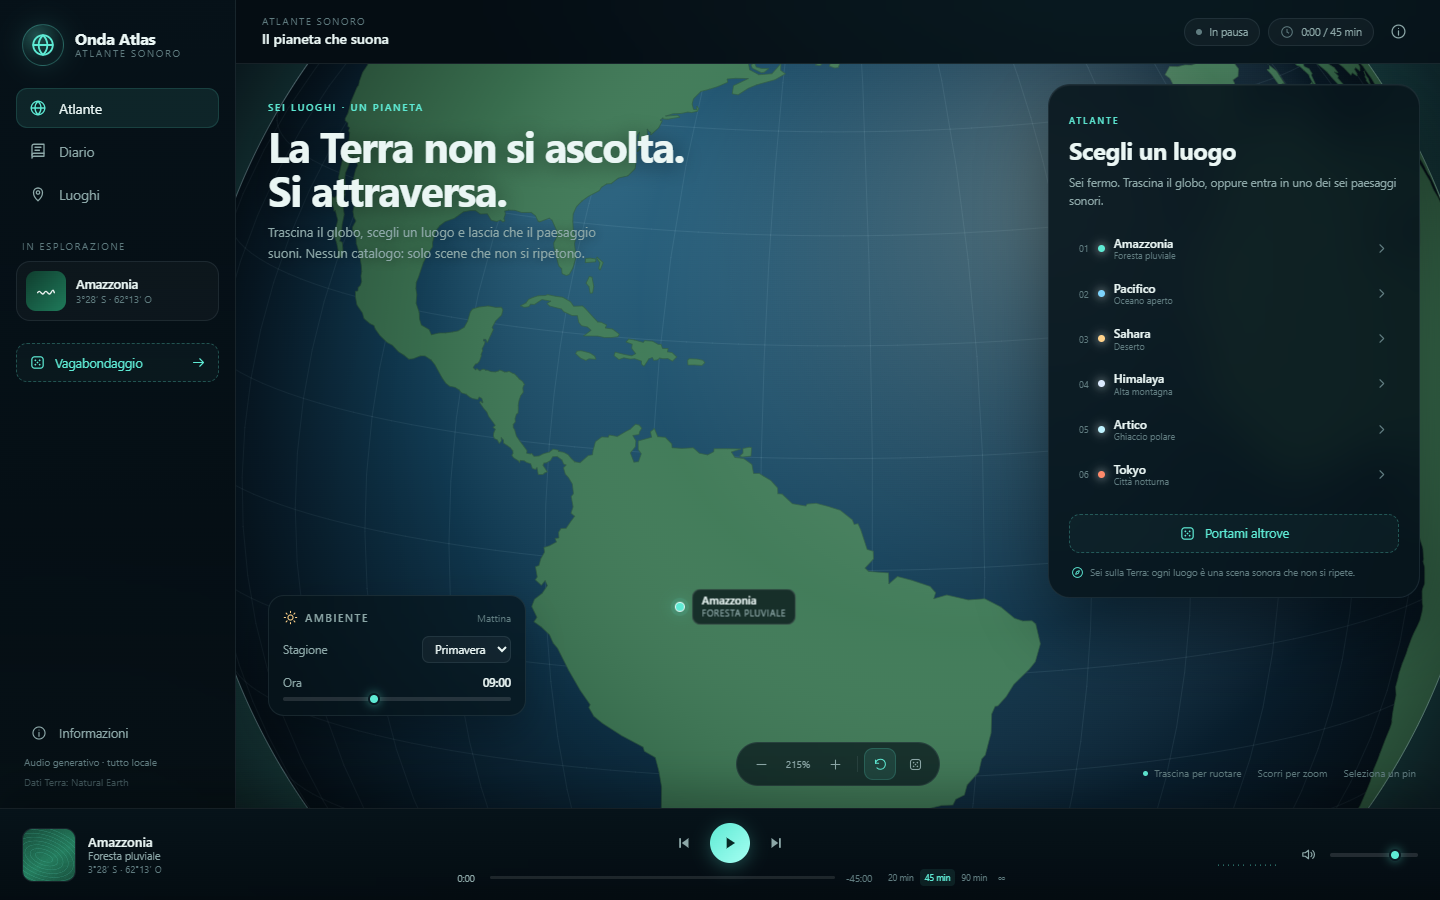
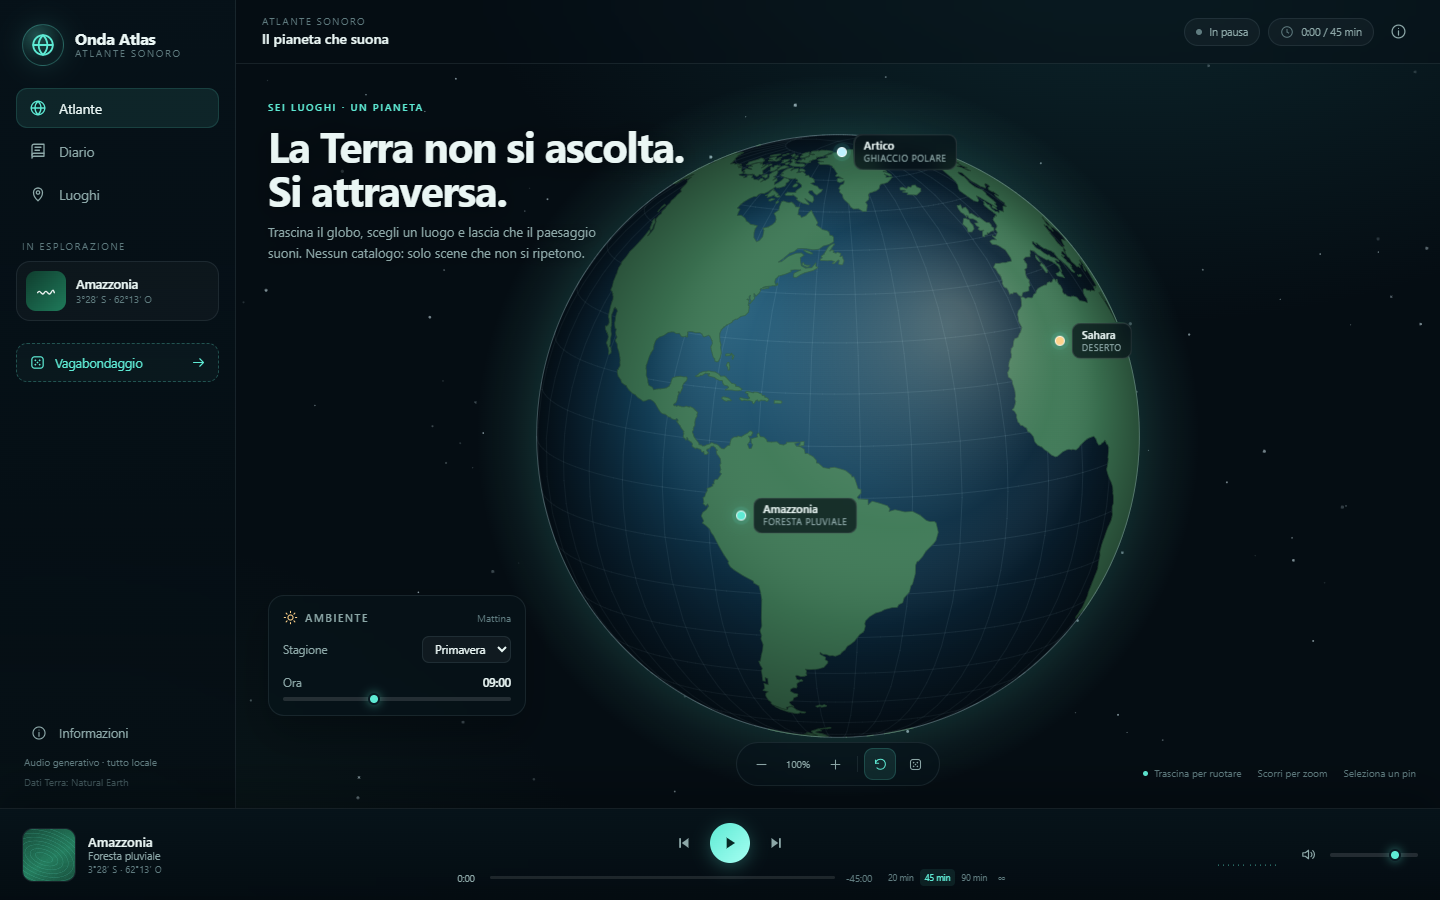
Layout desktop senza pannello esplora, screenshot e URL live

diff --git a/src/styles.css b/src/styles.css
@@ -2017,6 +2017,12 @@ input[type="range"]::-moz-range-thumb {
   }
 }
 
+@media (min-width: 761px) {
+  .explore-panel {
+    display: none;
+  }
+}
+
 @media (max-width: 760px) {
   .app {
     --player-h: 78px;

diff --git a/README.md b/README.md
@@ -2,6 +2,8 @@
 
 **La Terra non si ascolta. Si attraversa.**
 
+**Live:** https://angelolap.github.io/onda-atlas/
+
 Un atlante sonoro del pianeta: un globo terrestre interattivo, sei luoghi reali e sei paesaggi sonori generati nel browser. Nessun catalogo, nessun account, nessuna API, nessun file audio.
 
 Costruito come risposta creativa al test “clonare Spotify con REA”: invece di analizzare un client proprietario, qui l'idea è stata trasformata in un prodotto originale con un'identità propria.
@@ -66,6 +68,20 @@ npm run icons
 ```
 
 Per il deploy servono **HTTPS** (o localhost) e, se pubblichi in una sottocartella, vanno aggiornati `start_url`, `scope`, i percorsi del manifest e lo scope del service worker.
+
+## Deploy su GitHub Pages
+
+Il progetto è pubblicato su:
+
+**https://angelolap.github.io/onda-atlas/**
+
+La build per la sottocartella `/onda-atlas/` si genera con:
+
+```bash
+npm run build:pages
+```
+
+Il contenuto di `dist/` va pubblicato sul branch `gh-pages`. Il manifest usa percorsi relativi e il service worker ricava lo scope da `self.registration.scope`, quindi la stessa build funziona sia in radice sia in sottocartella.
 
 ## Test
 
